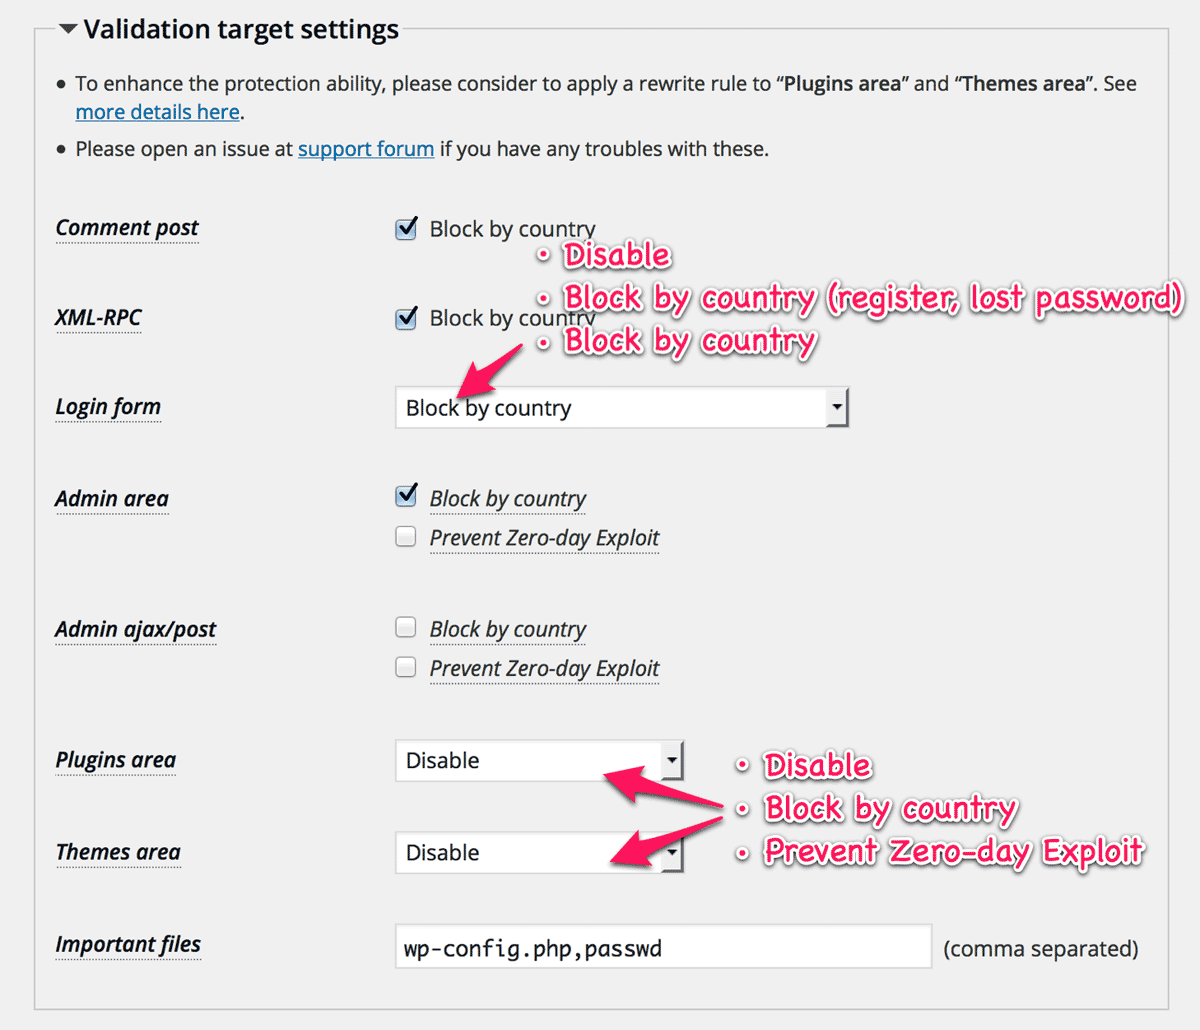
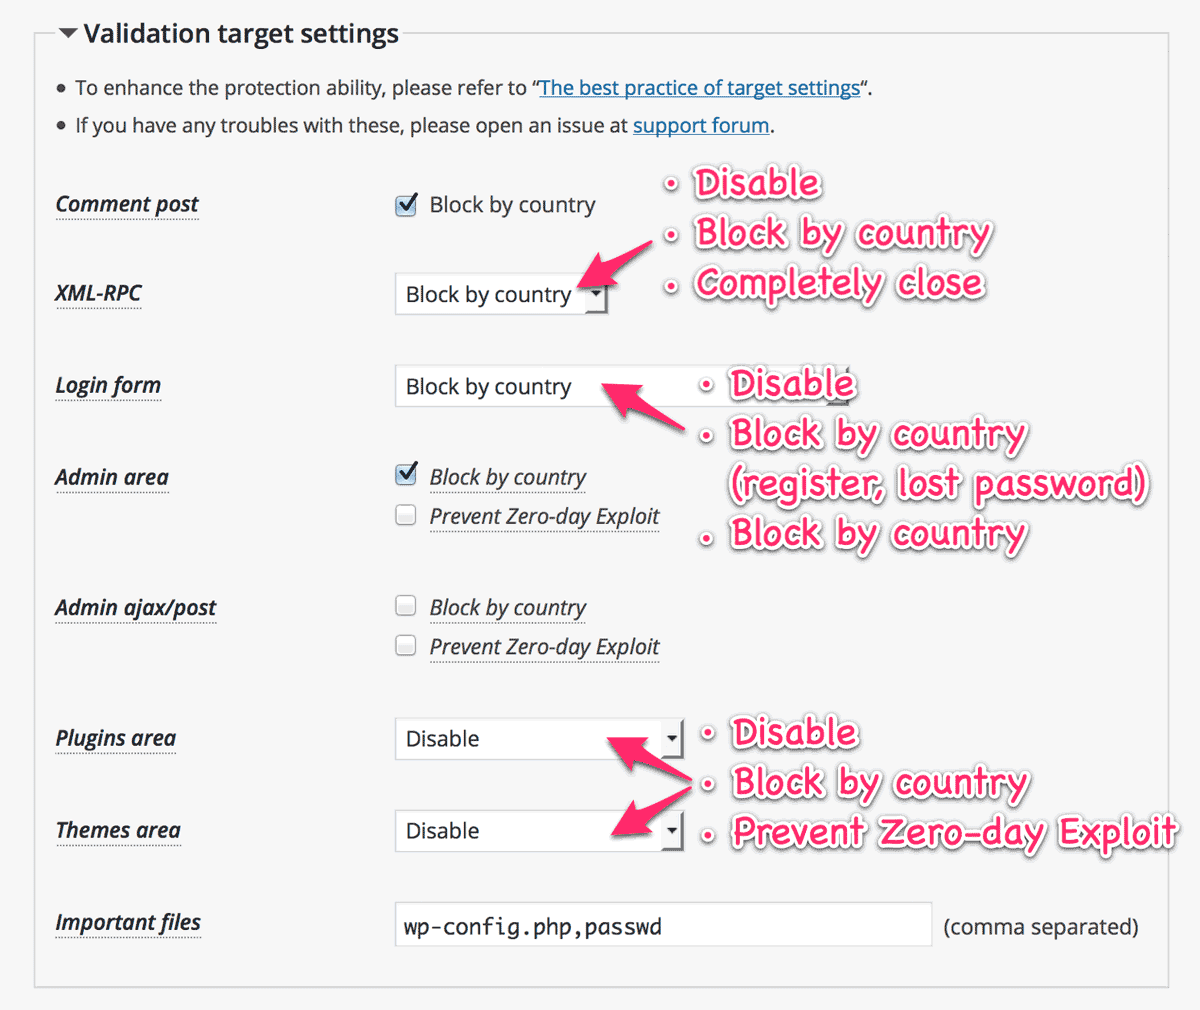
Update codex.

diff --git a/_codex/03/the-best-practice-of-target-settings.md b/_codex/03/the-best-practice-of-target-settings.md
@@ -14,25 +14,25 @@ At the "**Validation target settings**", you should select the options,
 
 At the time of your first installation and activation of this plugin, you can 
 see the following configuration at "**Validation target settings**". This is a 
-set of minimum configuration for a user who are interested in Geo-blocking by 
-IP address.
+set of minimum configuration which doesn't protect your site against the 
+attacks targeted at the vulnerble plugins and themes in your site.
 
 ![Initial settings]({{ '/img/2016-01/InitialSettings.png' | prepend: site.baseurl }}
  "Initial settings"
 )
 
-Note that this minimum configuration doesn't protect your site against the 
-attacks targeted at the vulnerble plugins and themes in your site.
-
 ### Setting for "XML-RPC" ###
 
-The WordPress core file `xmlrpc.php` is used as a reciever of both 
-[pingbacks][pingbacks] and [**R**emote **P**rocedure **C**all][XML-RPC].
-Speaking about RPC, it's useful for [mobile apps][WP-Mobile] and 
-[Jetpack][Jetpack]. But it also can be abused as login attempts by attackers.
+The WordPress core file `xmlrpc.php` is an endpoint for not only 
+[**R**emote **P**rocedure **C**all][XML-RPC] but also [pingbacks][pingbacks].
+As for the RPC, it's used by [Jetpack][Jetpack] and [mobile apps][MobileApp].
+But it's also abused as login attempts by the attackers.
 
-"**Block by country**" for this target can accept those useful requests while 
-reducing the risk of exploiting your site from forbidden countries.
+"**Block by country**" for this target can accept the useful requests while 
+reducing the risk of exploiting your site from forbidden countries. And 
+"**Completely close**" works more effectively than [WordPress 4.4 and later]
+[Core#34336] or [Disable XML-RPC][DIS-XMLRPC] especially against the [brute 
+force amplification attacks][BruteXMLRPC] by `system.multicall`.
 
 <div class="alert alert-info">
   <strong>NOTE:</strong>
@@ -58,20 +58,25 @@ enable this target (e.g. not "**Disable**"), the "limiting login attempts"
 will work for you. It also affects the target "**XML-RPC**" which can be used 
 for login attempts.
 
-For example, [Sucuri News][SucuriNews] had already unvailed the 
-[brute-force attempts using xmlrpc][BruteXMLRPC] which requires hundreds of 
-authentication attempts only by one HTTP request. In this case, this plugin 
-can also effectively protect your site against such attacks.
+For example, [Sucuri News][SucuriNews] had already unvailed the [brute-force 
+attempts using xmlrpc][BruteXMLRPC] which requires hundreds of authentication 
+attempts only by one HTTP request. This plugin can also effectively protect 
+your site against this kind of attacks.
 
 #### Limit login attempts ####
 
-Unfortunately, this plugin doesn't provide you the UI to change the number of 
-possible login attempts which is 5 by default. But if you're familiar with 
-phpMyAdmin, you can change the value of "**`login_failes`**" at 
-"**`ip_geo_block_settings`**" in the options table.
+You can change "**Max number of failed login attempts per IP address**" which 
+is 5 by default at the bottom of "**Validation rule settings**". If you select 
+"0" as for it, then users can't fail to login.
 
 ![login failed in phpMyAdmin]({{ '/img/2016-01/LoginAttempts.png' | prepend: site.baseurl }}
  "login failed in phpMyAdmin"
+)
+
+Note that the lockout time is same as the expiration time of cache.
+
+![Expiration time at Cache settings]({{ '/img/2016-01/CacheSettings.png' | prepend: site.baseurl }}
+ "Expiration time at Cache settings"
 )
 
 ### Setting for "Admin area" ###
@@ -154,8 +159,10 @@ If you have something to ask, please feel free to open your issue at the
 [IP-Geo-Block]: https://wordpress.org/plugins/ip-geo-block/ "WordPress › IP Geo Block « WordPress Plugins"
 [XML-RPC]:      https://en.wikipedia.org/wiki/XML-RPC "XML-RPC - Wikipedia, the free encyclopedia"
 [pingbacks]:    http://codex.wordpress.org/Introduction_to_Blogging#Pingbacks "Introduction to Blogging « WordPress Codex"
-[WP-Mobile]:    https://apps.wordpress.org/ "WordPress.org Mobile Apps"
+[MobileApp]:    https://apps.wordpress.org/ "WordPress.org Mobile Apps"
 [Jetpack]:      https://wordpress.org/support/topic/disabling-xml-rpc-may-damage-jetpack "WordPress › Support » Disabling XML-RPC may damage JetPack?"
+[DIS-XMLRPC]:   https://wordpress.org/plugins/disable-xml-rpc/ "WordPress › Disable XML-RPC « WordPress Plugins"
+[Core#34336]:   https://core.trac.wordpress.org/ticket/34336 "#34336 (Disable XML-RPC system.multicall authenticated requests on the first auth failure) – WordPress Trac"
 [SupportForum]: https://wordpress.org/support/plugin/ip-geo-block "WordPress › Support » IP Geo Block"
 [SucuriNews]:   https://blog.sucuri.net/ "Sucuri Blog - Website Security News"
 [BruteXMLRPC]:  https://blog.sucuri.net/2015/10/brute-force-amplification-attacks-against-wordpress-xmlrpc.html "Brute Force Amplification Attacks Against WordPress XMLRPC - Sucuri Blog"

diff --git a/_drafts/2016-02-06-release-2.2.3.md b/_drafts/2016-02-06-release-2.2.3.md
@@ -8,7 +8,7 @@ published: true
 
 In WordPress 4.4 and later, `system.multicall` [XML-RPC callback is disabled]
 [Core#34336] since [Sucuri][Sucuri] had discovered [brute force amplification 
-attacks][XMLRPC-Amp] using this callback which can attempt thousands of 
+attacks][BruteXMLRPC] using this callback which can attempt thousands of 
 authentification only by a single HTTP request. Thanks to the core team, we 
 don't need to worry about this type of attacks. But we still need to take care 
 of the side issue of [DoS attack][DoS-Attack] that causes exhausting of our 
@@ -223,7 +223,7 @@ your issue at [support forum][FORUM]. At any time, I'm open to your suggestions.
 [IP-Geo-Block]: https://wordpress.org/plugins/ip-geo-block/ "WordPress › IP Geo Block « WordPress Plugins"
 [Sucuri]:       https://blog.sucuri.net/ "Sucuri Blog - Website Security News"
 [Core#34336]:   https://core.trac.wordpress.org/ticket/34336 "#34336 (Disable XML-RPC system.multicall authenticated requests on the first auth failure) – WordPress Trac"
-[XMLRPC-Amp]:   https://blog.sucuri.net/2015/10/brute-force-amplification-attacks-against-wordpress-xmlrpc.html "Brute Force Amplification Attacks Against WordPress XMLRPC - Sucuri Blog"
+[BruteXMLRPC]:  https://blog.sucuri.net/2015/10/brute-force-amplification-attacks-against-wordpress-xmlrpc.html "Brute Force Amplification Attacks Against WordPress XMLRPC - Sucuri Blog"
 [DoS-Attack]:   https://en.wikipedia.org/wiki/Denial-of-service_attack "Denial-of-service attack - Wikipedia, the free encyclopedia"
 [XMLRPC-SPEC]:  http://xmlrpc.scripting.com/spec.html "XML-RPC Specification"
 [DIS-XMLRPC]:   https://wordpress.org/plugins/disable-xml-rpc/ "WordPress › Disable XML-RPC « WordPress Plugins"
